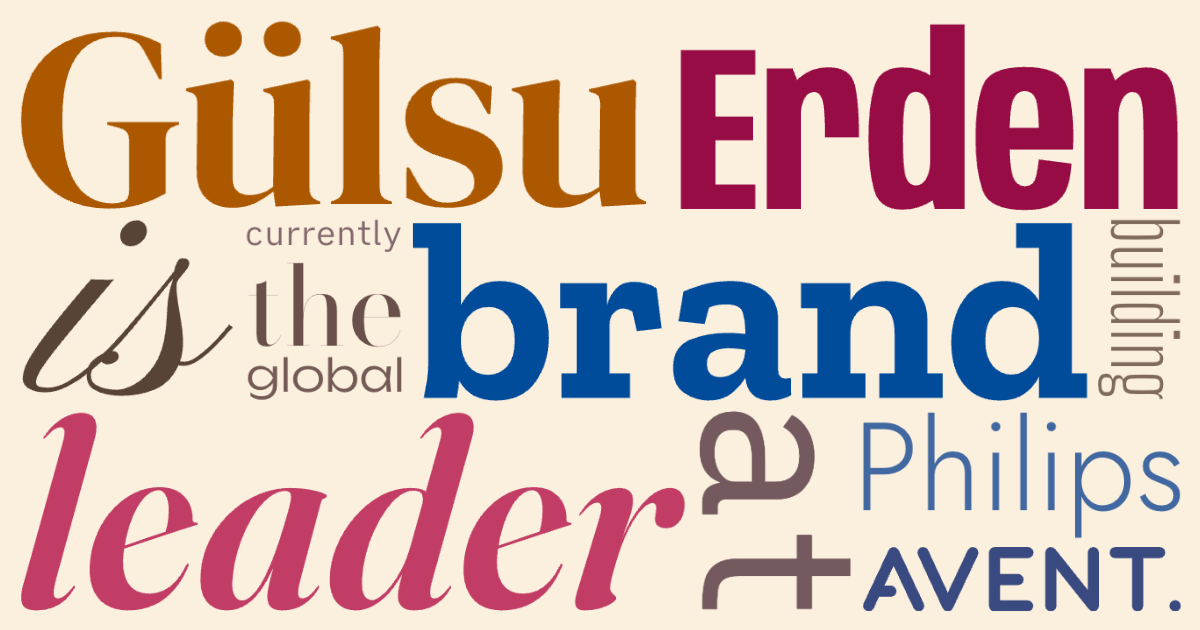
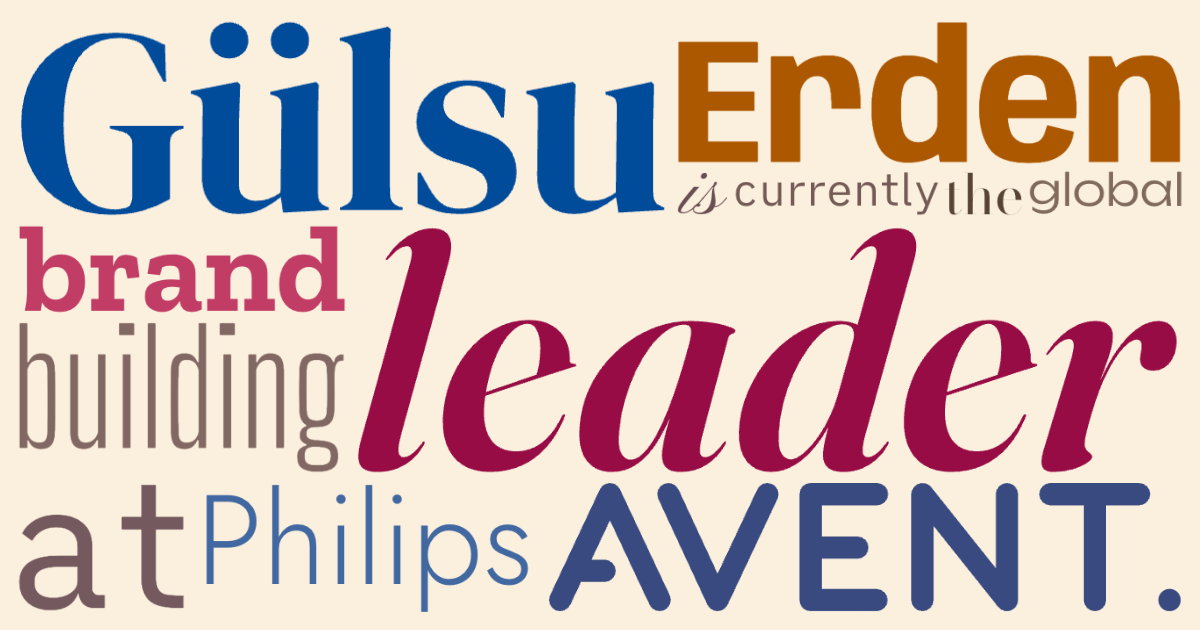
Keep Philips up to size and beside Avent
Claude-Session: https://claude.ai/code/session_018aCepncNdBYtxFp4RBQemT

diff --git a/index.html b/index.html
@@ -16,7 +16,7 @@
     <meta property="og:image" content="https://gulsuerden.com/og.png">
     <meta property="og:image:width" content="1200">
     <meta property="og:image:height" content="630">
-    <meta property="og:image:alt" content="A wall of words on cream, each in its own typeface, the key words heavy in ochre, crimson, blue and pink and the small words light: Gülsu Erden is currently the global brand building leader at Philips Avent.">
+    <meta property="og:image:alt" content="A wall of words on cream, each in its own typeface, the key words heavy in blue, ochre, pink and crimson and the small words light: Gülsu Erden is currently the global brand building leader at Philips Avent.">
     <meta name="twitter:card" content="summary_large_image">
     <link rel="preload" href="fonts/dm-serif-display-400.woff2" as="font" type="font/woff2" crossorigin>
     <link rel="preload" href="fonts/anybody-700.woff2" as="font" type="font/woff2" crossorigin>
@@ -414,18 +414,18 @@
          word readable, is set. */
       (function () {
         var TREES = [
-          ["c", 0, ["r", 1, 2], ["r", ["c", ["r", 3, 4, 5], 6, ["r", 7, 8]], "9v"], ["r", 10, 11]],
-          ["c", ["r", 0, 1], ["r", 2, ["c", 3, 4, 5], 6], ["r", "7v", 8, 9, ["c", 10, 11]]],
-          ["c", 0, 1, ["r", ["c", ["r", 2, 3], 4, 5, 6], "7v"], 8, ["r", 9, ["c", 10, 11]]],
-          ["c", ["r", 0, 1], ["r", ["c", ["r", 2, 3], 4], 5], ["r", 6, 7], ["r", 8, 9, ["c", 10, 11]]],
-          ["c", ["r", 0, 1], ["r", 2, 3], ["r", ["c", 4, 5], 6, 7], ["r", 8, ["c", 9, 10], 11]],
-          ["c", 0, 1, ["r", 2, 3], ["r", ["c", 4, 5], 6], ["r", 7, 8], ["r", 9, ["c", 10, 11]]],
-          ["c", ["r", 0, 1], ["r", 2, ["c", 3, 4, 5], 6, "7v"], ["r", 8, "9v", ["c", 10, 11]]],
-          ["c", ["r", 0, 1, ["c", 2, 3]], ["r", 4, "5v", 6], ["r", 7, 8, ["c", 9, 10], 11]],
-          ["c", 0, 1, ["r", 2, 3, 4, 5], ["r", 6, "7v"], ["r", 8, 9], ["r", 10, 11]],
-          ["c", 0, ["r", 1, 2], 3, ["r", ["c", 4, 5], 6], ["r", "7v", 8], ["r", ["c", 9, 10], 11]],
-          ["c", ["r", 0, 1], ["r", 2, 3], ["r", ["c", 4, 5], 6], ["r", 7, ["c", 8, ["r", 9, 10, 11]]]],
-          ["c", 0, 1, ["r", 2, ["c", 3, 4, 5]], ["r", 6, "7v"], ["r", 8, 9], ["r", 10, 11]]
+          ["c", ["r", ["c", 0, 1, ["r", 2, 3, 4], ["r", 5, 6]], "7v"], ["r", 8, 9, 10, 11]],
+          ["c", 0, 1, ["r", 2, 3, 4, 5], 6, 7, 8, ["r", 9, 10, 11]],
+          ["c", ["r", 0, 1], ["r", ["c", ["r", 2, 3, 4, 5], 6], 7], ["r", 8, 9, 10, 11]],
+          ["c", 0, 1, ["r", 2, 3, 4, 5], ["r", 6, "7v"], 8, ["r", 9, 10, 11]],
+          ["c", ["r", ["c", 0, 1, ["r", 2, 3, 4, 5], 6], "7v"], ["r", 8, 9, 10, 11]],
+          ["c", ["r", 0, ["c", 1, ["r", 2, 3, 4, 5]]], ["r", ["c", 6, 7], 8], ["r", 9, 10, 11]],
+          ["c", ["r", 0, 1], ["r", "2v", 3, ["c", 4, 5]], ["r", 6, 7, 8, "9v"], ["r", 10, 11]],
+          ["c", ["r", 0, 1], ["r", ["c", ["r", 2, 3], 4, 5], 6, 7], ["r", 8, "9v", 10, 11]],
+          ["c", 0, 1, ["r", 2, 3, 4], 5, 6, ["r", 7, 8, "9v"], ["r", 10, 11]],
+          ["c", 0, ["r", 1, ["c", ["r", 2, 3, 4], 5, 6]], ["r", 7, 8], ["r", 9, 10, 11]],
+          ["c", 0, 1, ["r", 2, 3, 4, 5], 6, ["r", 7, 8, "9v"], ["r", 10, 11]],
+          ["c", ["r", ["c", 0, 1, ["r", 2, 3, 4, 5, 6]], "7v"], ["r", 8, 9, 10, 11]]
         ];
         var main = document.querySelector("main");
         var words = [].slice.call(document.querySelectorAll(".w"));
@@ -675,6 +675,13 @@
             : Math.min(tile.w / node.iw, tile.h / m.h);
         }
 
+        /* Whether Philips and Avent are set next to each other in one row or column */
+        function paired(node) {
+          return !!node.c && node.c.some(function (c, i) {
+            return paired(c) || (c.i === 10 && node.c[i + 1] && node.c[i + 1].i === 11);
+          });
+        }
+
         /* How well a tree fills the window: all of it, with Erden near its normal width,
            little letter-spacing, no word thinner than a twentieth of the window's short
            side */
@@ -705,7 +712,13 @@
           score -= 2 * Math.max(0, 0.45 - Math.min(ink[0], ink[1]) / loudest);
           score -= 2 * Math.max(0, 0.4 - Math.min(ink[6], ink[8]) / loudest);
           score -= 2 * Math.max(0, 0.25 - ink[11] / loudest);
-          score -= 2 * Math.max(0, 0.22 - ink[10] / loudest);
+          /* Philips is half of her employer's name: at least half as tall as Avent,
+             no smaller than the littlest words, and best set beside Avent as a pair */
+          score -= 4 * Math.max(0, 0.55 - ink[10] / ink[11]);
+          [2, 4, 9].forEach(function (i) {
+            score -= 2 * Math.max(0, 1 - ink[10] / ink[i]);
+          });
+          if (paired(tree)) score += 0.15;
           score -= 2 * Math.max(0, ink[10] / name - 0.8);
           score -= 2 * Math.max(0, ink[11] / name - 0.7);
           /* Her two names are of a size */
